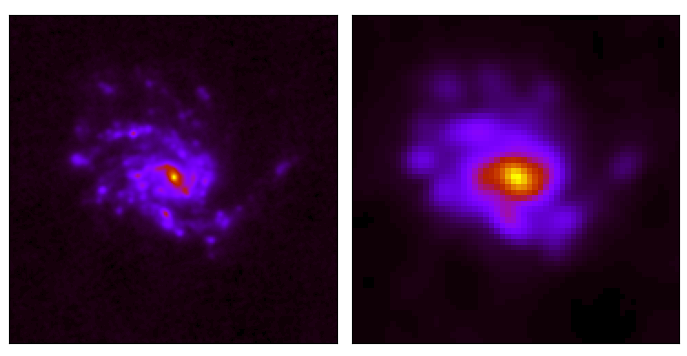
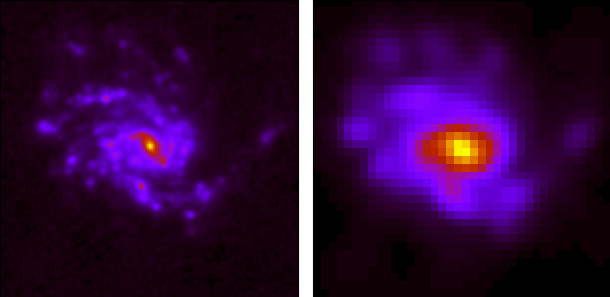
Better imgaes and captions for propagation example

diff --git a/blog/differr.html b/blog/differr.html
@@ -81,23 +81,25 @@
                         "Result of degrading and re-gridding NGC4254" width=
                         "100%" title=
                         "Result of degrading and re-gridding NGC4254">
-                        <p
-                        style="color:rgb(51,51,153);text-align:center"><i>Top
-                        left: the original \(180\times 180\) image,
-                        \(\boldsymbol{x}\), of NGC4254 as
-                        seen by the instrument PACS on-board of the Herschel
-                        space telescope at a wavelength of 70 \(\mu\)m with a
-                        pixel size of 3 arcseconds and a resolution of 9
-                        arcseconds. Top right: the result, \(\boldsymbol{y}\)
-                        of the operation, \(h(\boldsymbol{x})\), degrading and
-                        re-gridding to the resolution of the SPIRE instrument
-                        on-board of the Herschel space telescope at a wavelength
-                        of 250 \(\mu \)m with a pixel size of 8 arcseconds and
-                        resolution 18 arcseconds resulting in a \( 60 \times
-                        60\) image.  Bottom left: the input uncertainty map
-                        \(\Sigma_{\boldsymbol{x}}\). Bottom right: the propagated
-                        uncertainty map, \(\Sigma_{\boldsymbol{y}}\), after 
-                        degrading and regridding.</i></p>
+                        <p style="color:rgb(51,51,153);text-align:center"><i>
+                        <span style="color:rgb(173,25,43)">Top left:</span> the
+                        original image, \(\boldsymbol{x}\), of NGC4254 as seen
+                        by the instrument PACS on-board of the Herschel space
+                        telescope at a wavelength of 70 \(\mu\)m with a pixel
+                        size of 3 arcseconds and a resolution of 9 arcseconds.
+                        <span style="color:rgb(173,25,43)">Top right:</span>
+                        the result, \(\boldsymbol{y}\) of the operation,
+                        \(h(\boldsymbol{x})\), degrading and re-gridding to the
+                        resolution of the SPIRE instrument on-board of the
+                        Herschel space telescope at a wavelength of 250 \(\mu
+                        \)m with a pixel size of 8 arcseconds and resolution 18
+                        arcseconds resulting.<span
+                        style="color:rgb(173,25,43)"> Bottom left:</span> the
+                        input uncertainty map \(\Sigma_{\boldsymbol{x}}\).
+                        <span style="color:rgb(173,25,43)">Bottom right:</span>
+                        the propagated uncertainty map,
+                        \(\Sigma_{\boldsymbol{y}}\), after degrading and
+                        regridding.</i></p>
                     </td>
                 </tr>
             </tbody>
@@ -151,9 +153,6 @@
                 </tr>
             </tbody>
         </table><br>
-        <br>
-        Pixel regridding derivatives... [TBA]
-
         <p style="font-size:11px"><b>Results</b></p>
         A more applicable method, is to estimate the propagated uncertainty by
         repeating the same process and by adding a random noise to each pixel
